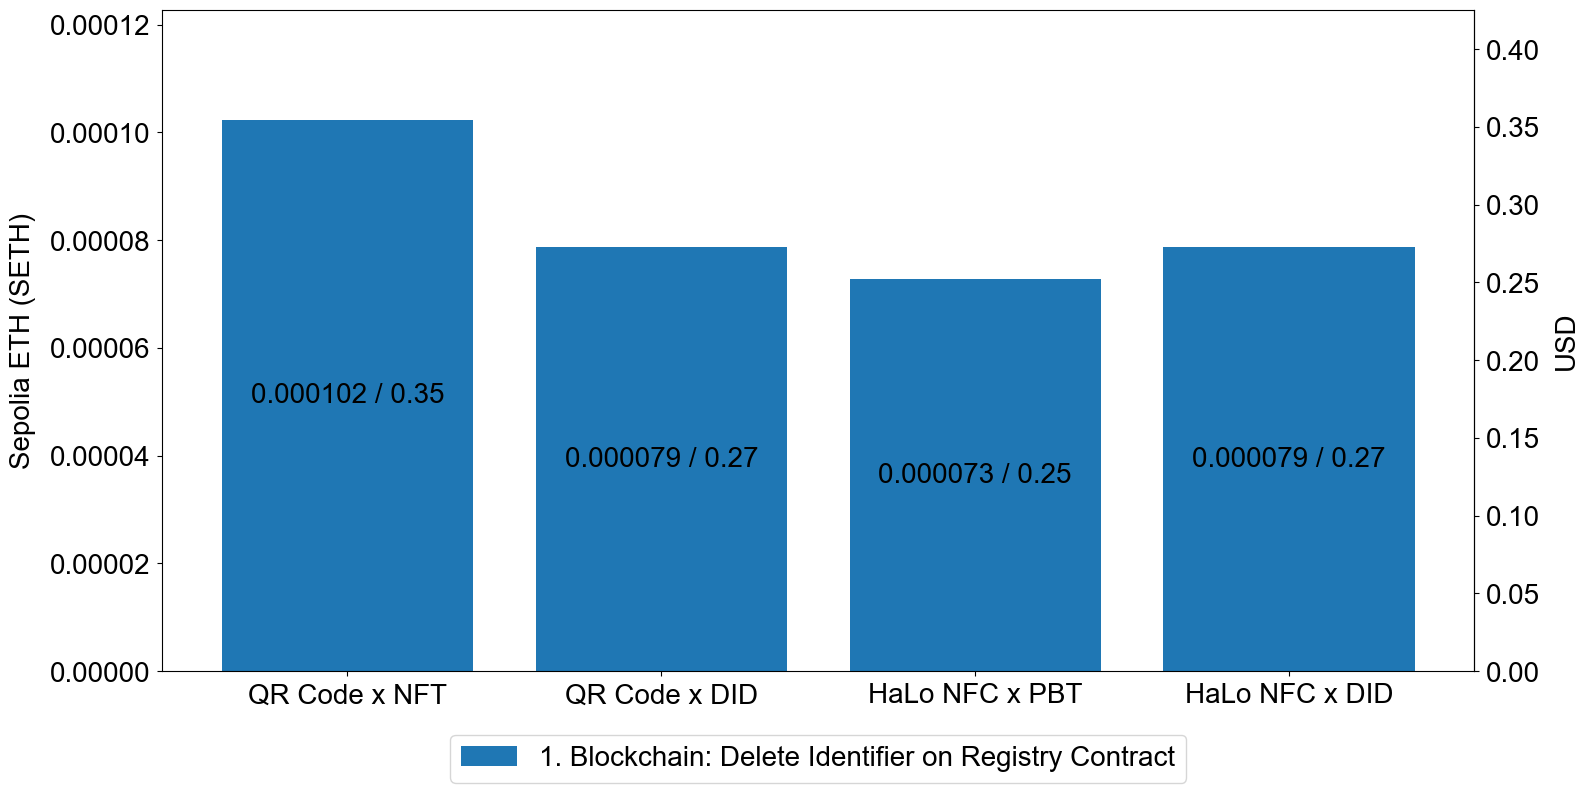
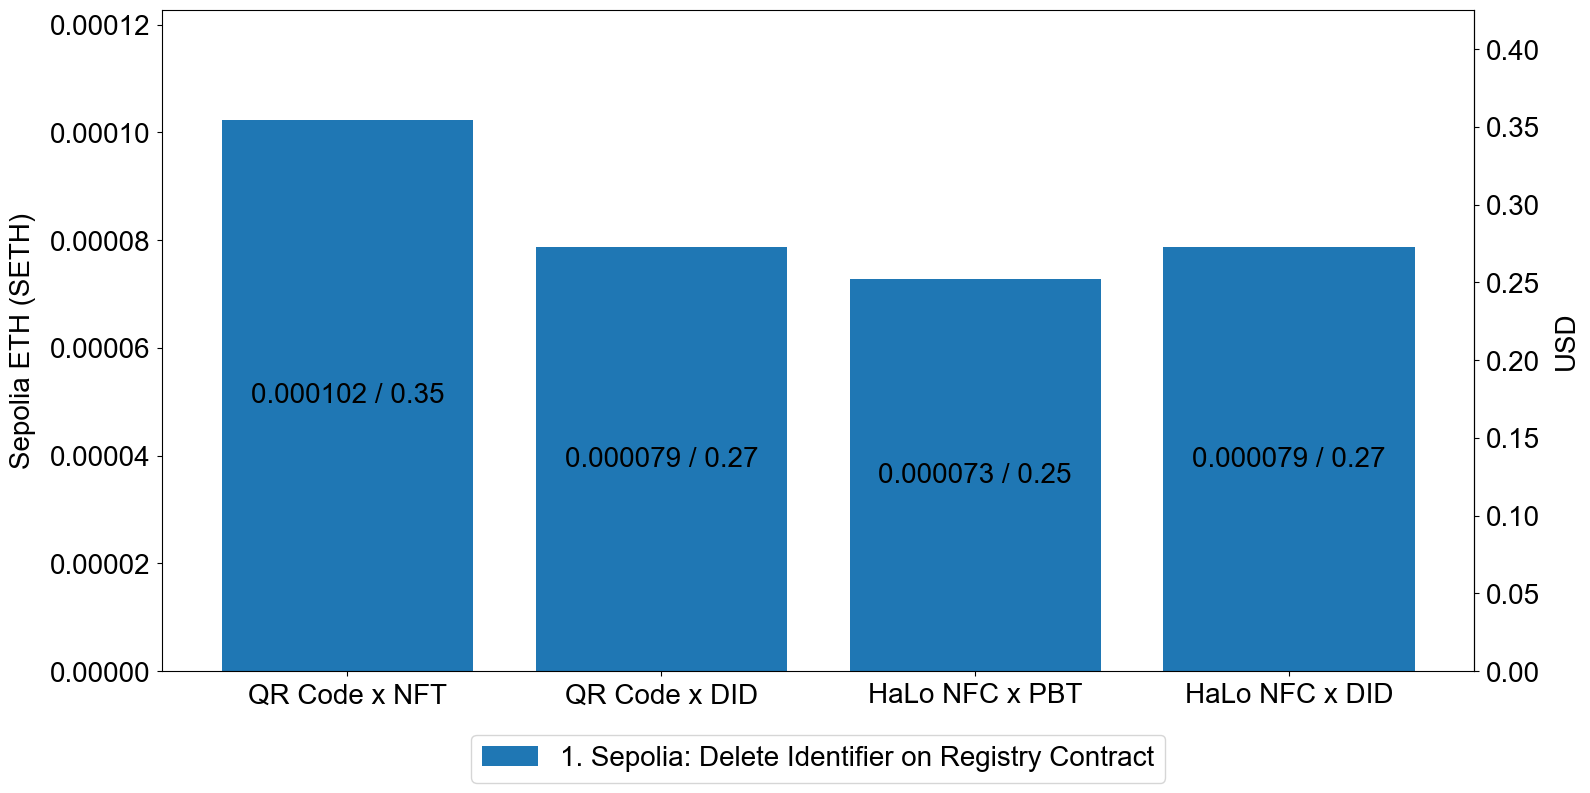
plot descriptions improved

Changed region(s): [[0.2774, 0.9382, 0.7396, 0.9685]]

diff --git a/evaluation/utils/preprocessing.py b/evaluation/utils/preprocessing.py
@@ -63,31 +63,31 @@ def process_registry_data(data_path):
 
 
 deployment_labels = [
-    "1. Blockchain: NFT, PBT, or DID Registry Contract Deployment",
-    "2. Blockchain: HaLo NFC Metadata Registry Contract Deployment",
+    "1. Sepolia: NFT, PBT, or DID Registry Contract Deployment",
+    "2. Sepolia: HaLo NFC Metadata Registry Contract Deployment",
 ]
 
 create_labels = [
     "1. Arweave: Upload Passport Data",
-    "2. Blockchain: Create Identifier on Registry Contract",
+    "2. Sepolia: Create Identifier on Registry Contract",
     "3. Arweave: Upload Passport Metadata",
-    "4. Blockchain: Store MetadataURI on HaLo NFC Metadata Registry Contract",
+    "4. Sepolia: Store MetadataURI on HaLo NFC Metadata Registry Contract",
 ]
 
 read_labels = [
-    "1. Blockchain: Read MetadataURI from Registry Contract",
+    "1. Sepolia: Read MetadataURI from Registry Contract",
     "2. Arweave: Read Passport Metadata",
-    "3. Blockchain: Read PassportURI from Registry Contract",
+    "3. Sepolia: Read PassportURI from Registry Contract",
     "4. Arweave: Read Passport Data",
 ]
 
 update_labels = [
     "1. Arweave: Upload Passport Data",
-    "2. Blockchain: Update Identifier on Registry Contract",
+    "2. Sepolia: Update Identifier on Registry Contract",
 ]
 
 delete_labels = [
-    "1. Blockchain: Delete Identifier on Registry Contract",
+    "1. Sepolia: Delete Identifier on Registry Contract",
 ]
 
 
